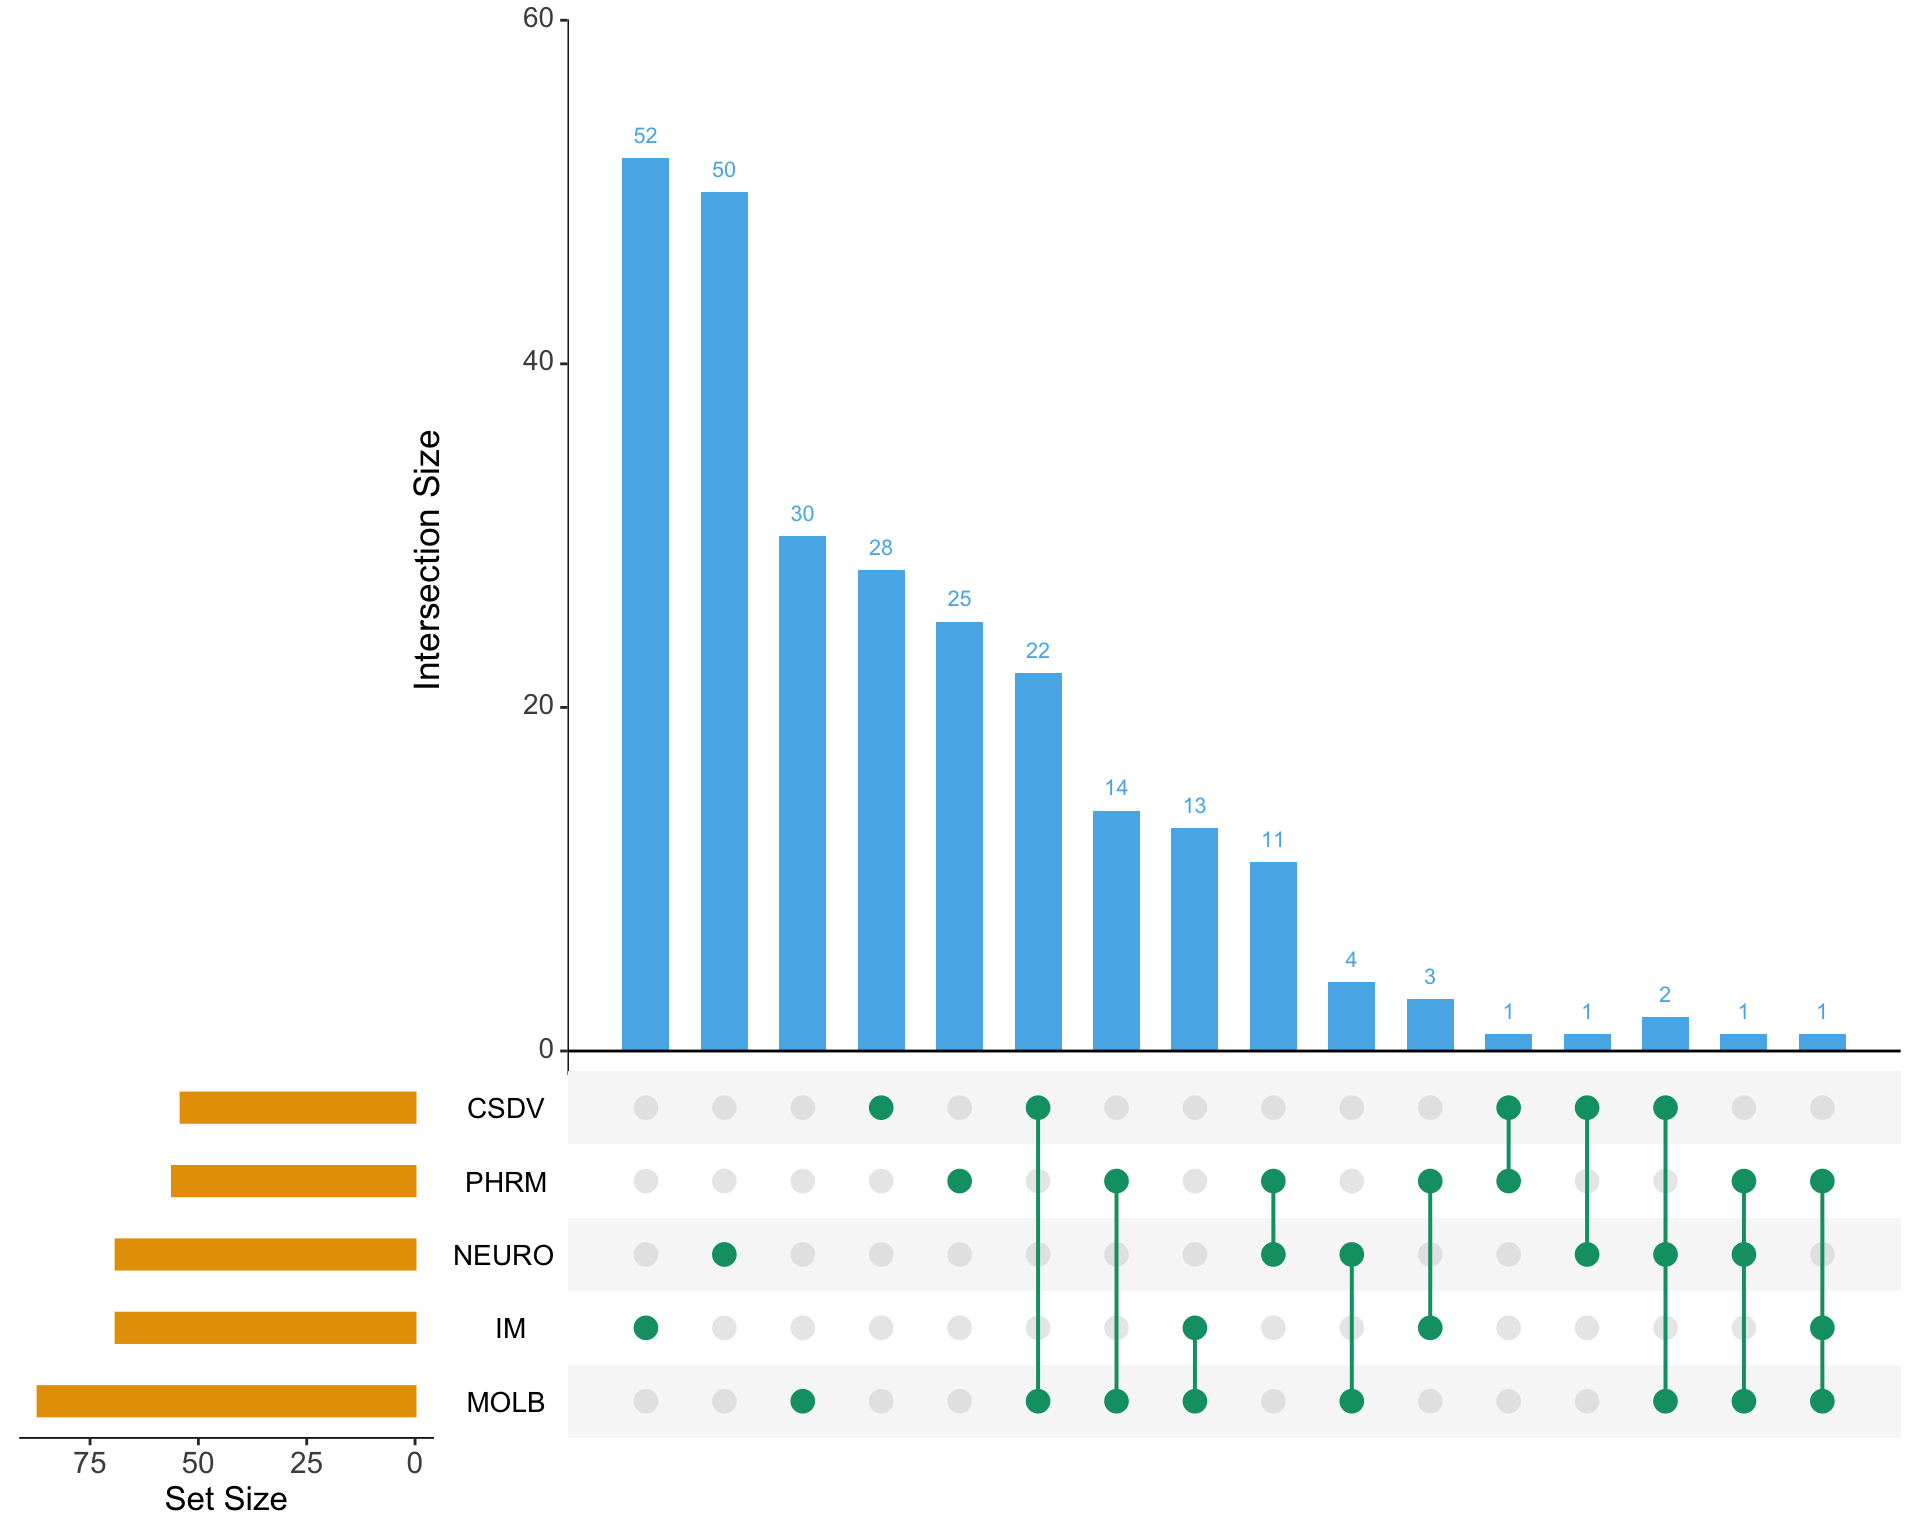
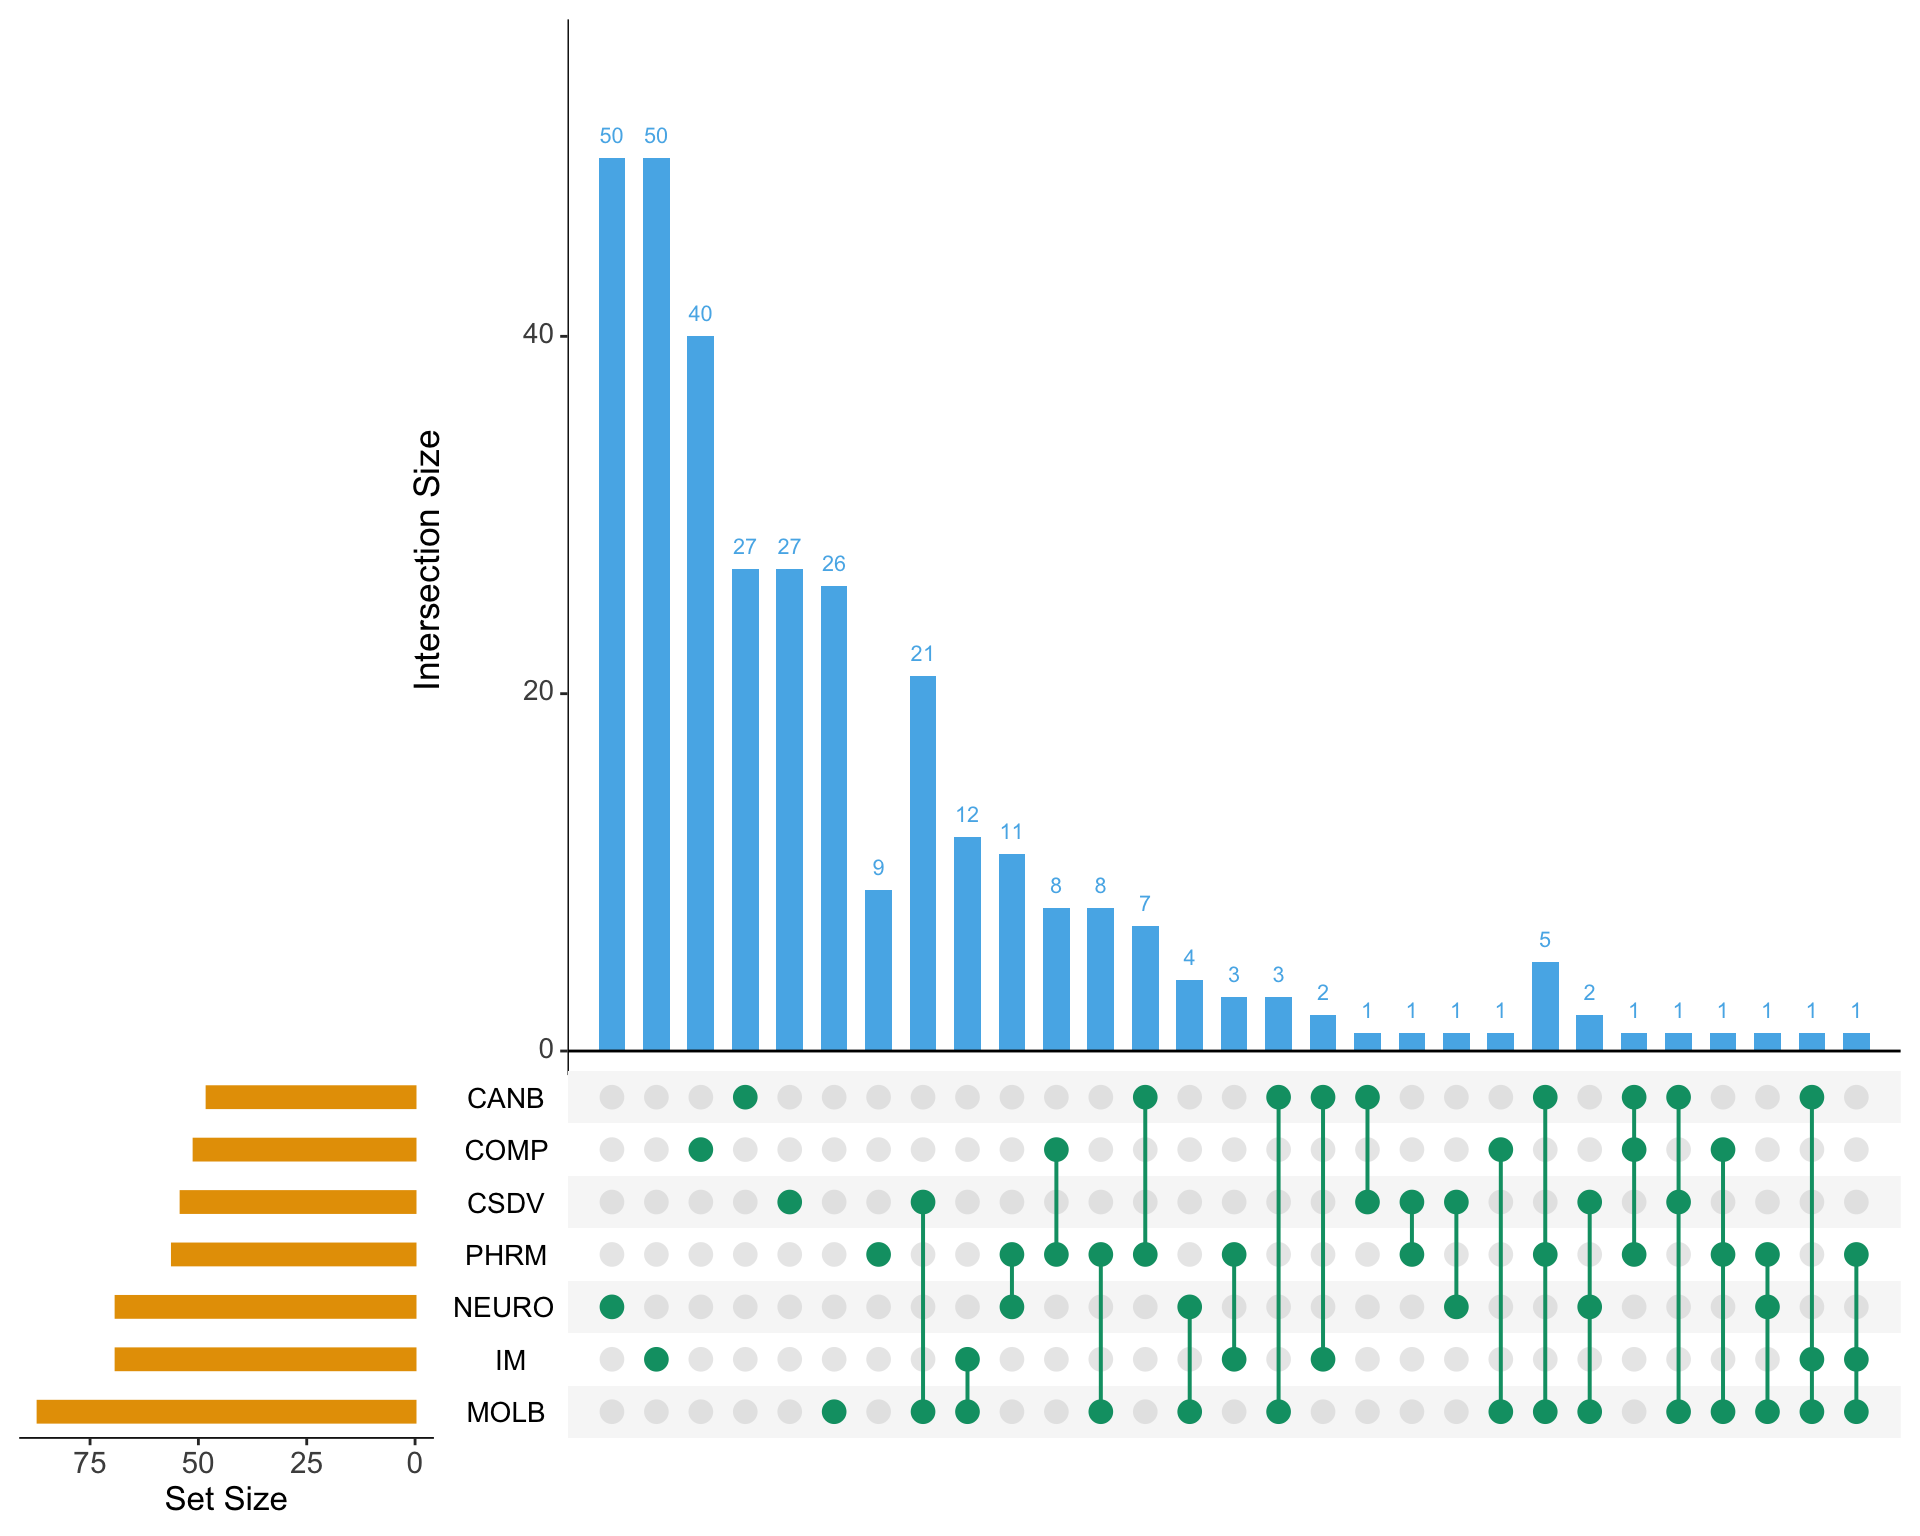
more updates

Changed region(s): [[0.2812, 0.0625, 0.9688, 0.9375], [0.0, 0.6875, 0.2188, 0.9375], [0.25, 0.6875, 0.2812, 0.9375]]

diff --git a/docs/faculty-associations.html b/docs/faculty-associations.html
@@ -1359,7 +1359,7 @@
 <li><p>The sizes of new programs are roughly uniform, with four of the new programs comprised of 70-80 uniquely-associated faculty. CAN (Cancer Biology and Pharmacology) is a bit smaller.</p></li>
 </ul>
 <h3 id="yet-another-proposed-program-structure">(Yet another) Proposed program structure</h3>
-<p>This plot represents the proposed program structure, with my faculty assignments from the sheet above.</p>
+<p>This plot represents yet antoerh proposed program structure, with my faculty assignments from the sheet above.</p>
 <ol type="1">
 <li>CSD, HMGP, Iphs (CSDV)</li>
 <li>Mol bio and structure (MOLB)</li>
@@ -1372,10 +1372,6 @@
 <div class="layout-chunk" data-layout="l-body-outset">
 <p><img src="faculty-associations_files/figure-html5/prog_upset_new_again-1.png" width="960" /></p>
 </div>
-<ul>
-<li><p>There are <em>many</em> fewer cross-program faculty. As I went through mapping faculty to programs, in many cases it was obvious what the primary association(s) should be; everyone is affiliated with 1 or 2 programs.</p></li>
-<li><p>The sizes of new programs are roughly uniform, with four of the new programs comprised of 70-80 uniquely-associated faculty. CAN (Cancer Biology and Pharmacology) is a bit smaller.</p></li>
-</ul>
 <!--radix_placeholder_article_footer-->
 <!--/radix_placeholder_article_footer-->
 </div>
